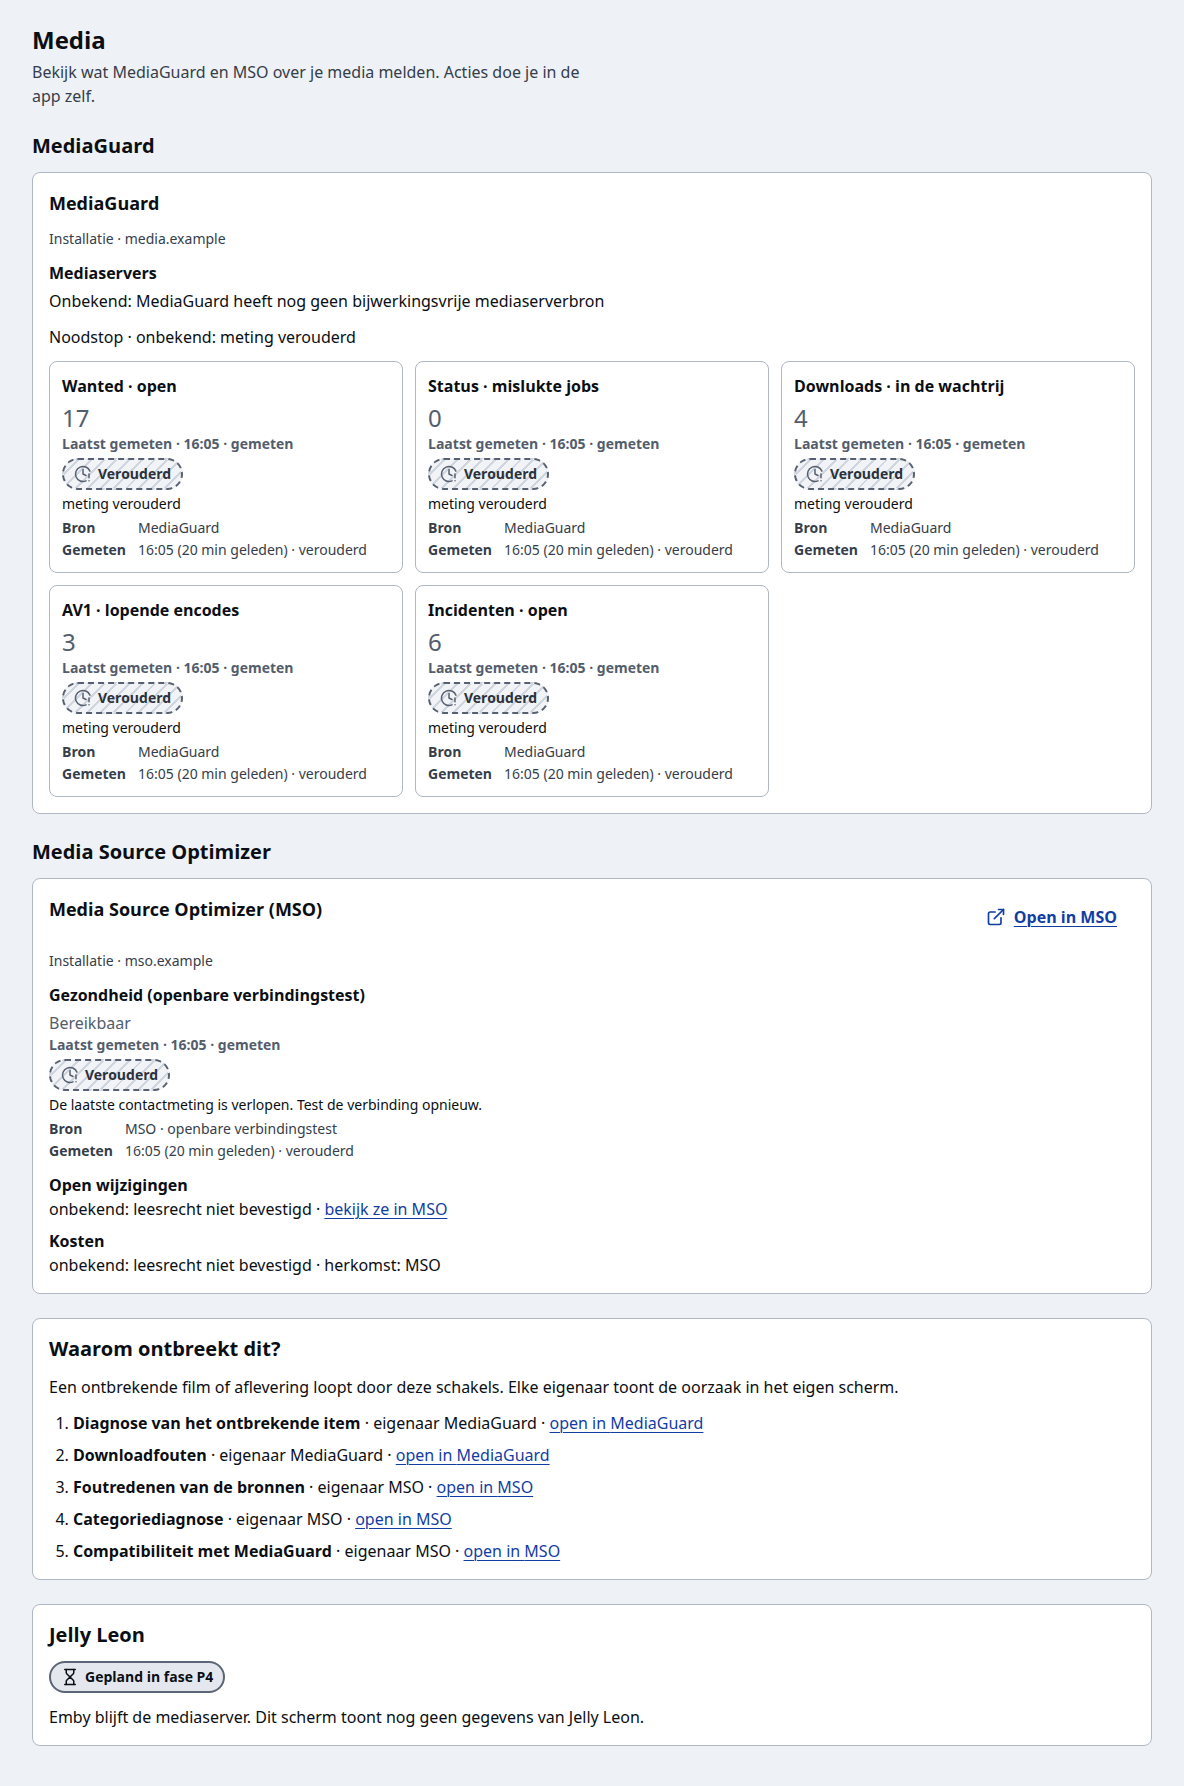
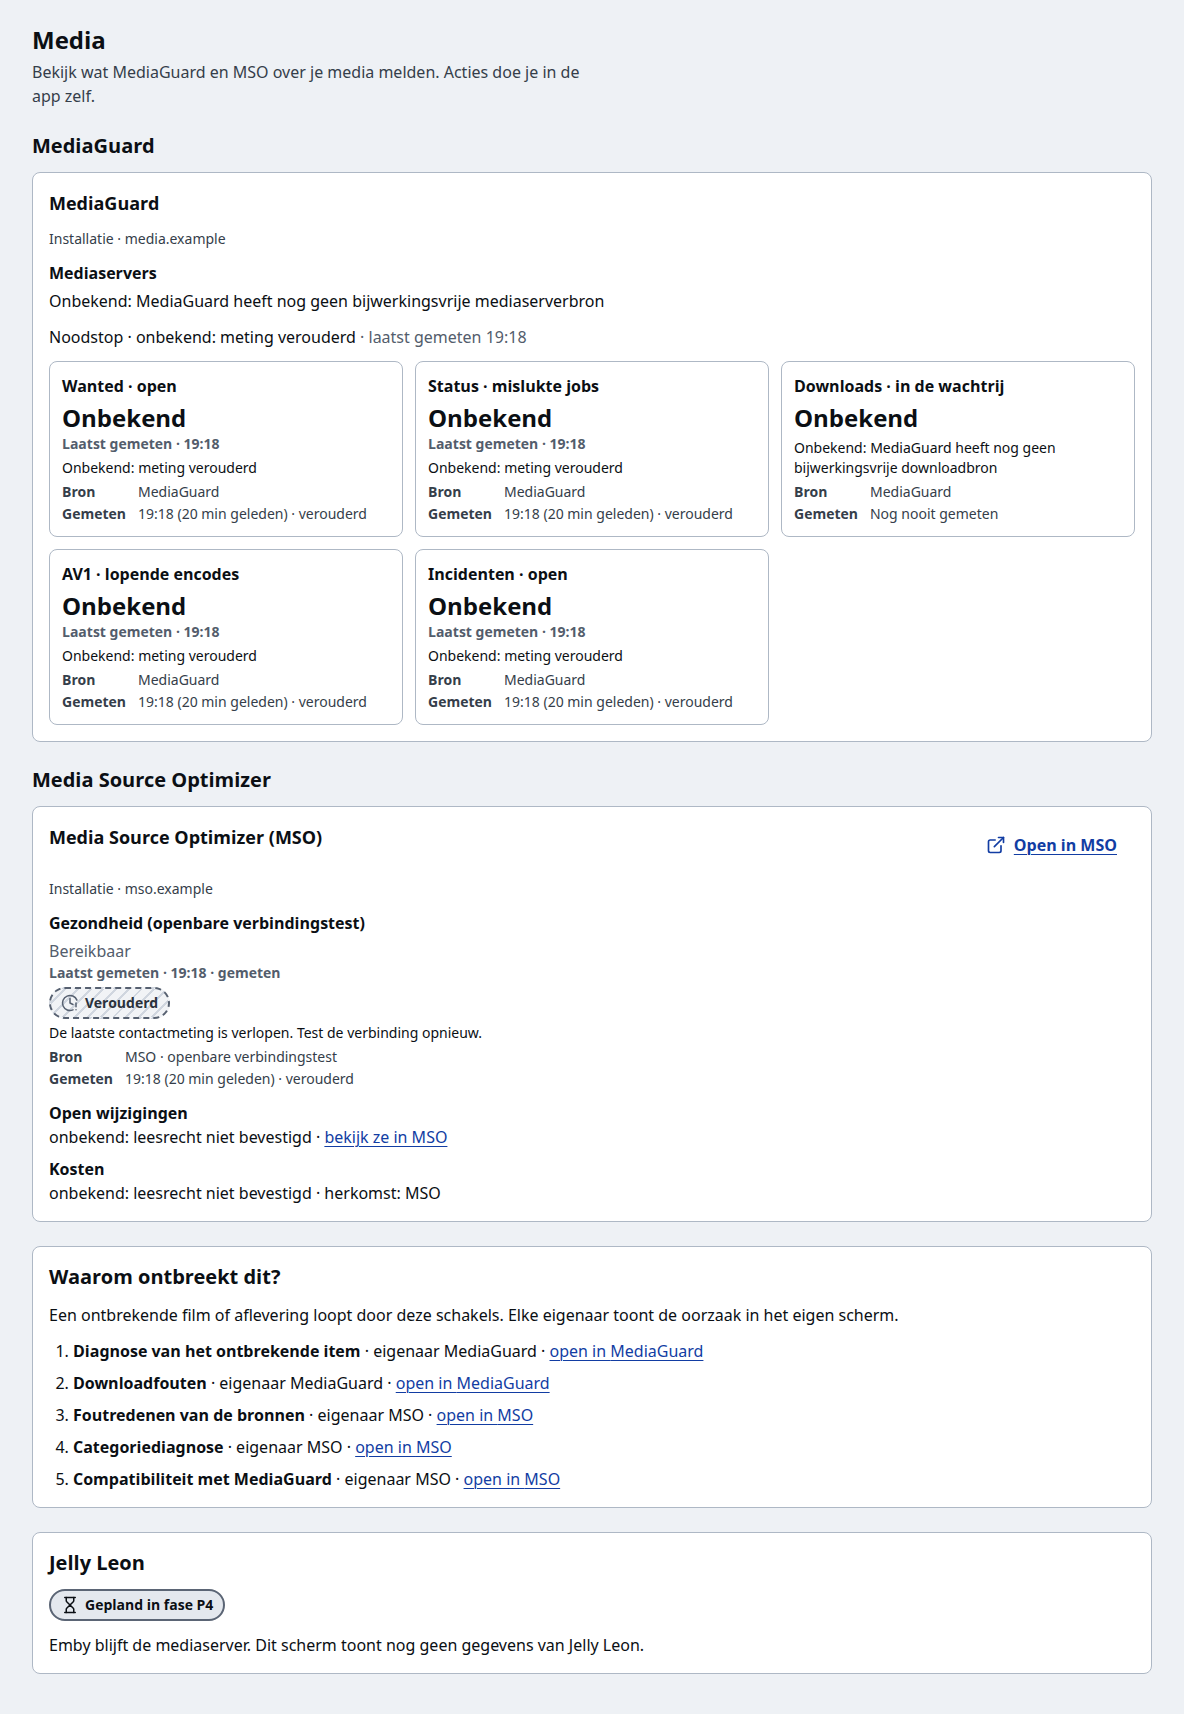
Toon bij een verouderde MediaGuard-bron de laatste meettijd (S-P3-082)
Herstel R-VEILIG-5: een onbekend cijfer met bekende bronmeettijd toont
geen getal maar grijs "Laatst gemeten" met die tijd, nooit "Nog nooit
gemeten". De onbekende noodstop toont "laatst gemeten <tijd>". De
e2e-fixture verouderd gebruikt nu de echte Hub-vorm (onbekend, waarde
null, oorspronkelijke meettijd); downloads is altijd onbekend.
Schermafdrukken gevuld en verouderd bijgewerkt.

diff --git a/apps/web/e2e/20-media.spec.ts b/apps/web/e2e/20-media.spec.ts
@@ -9,20 +9,27 @@ const route = "**/api/v1/adapterkoppelingen?*";
 const overzichtRoute = "**/api/v1/adapterkoppelingen/*/mediaguard";
 const onbekend = { status: "unknown", observed_at: null, reason_code: "geen_alleen_lezen_bron" };
 const CIJFERS = ["wanted", "status", "downloads", "av1", "incidenten"];
+const DOWNLOADS = "MediaGuard heeft nog geen bijwerkingsvrije downloadbron";
 const SERVERS = { status: "onbekend", servers: null, reden: "MediaGuard heeft nog geen bijwerkingsvrije mediaserverbron" };
 
 function mediaguard() {
   return { id: randomUUID(), app_id: "mediaguard", catalog_app_id: randomUUID(), basis_url: "https://media.example", laatste4: "TST4",
     ingevoerd_op: null, version: 1, verbinding: onbekend, gezondheid: onbekend };
 }
-/** Vorm van hub/adapters/mediaguard_lezen.py::Overzicht. */
-function overzicht(tijd: string | null, noodstopAan = false) {
-  const waarden = [17, 0, 4, 3, 6];
-  const cijfers = Object.fromEntries(CIJFERS.map((k, i) => [k, tijd
-    ? { status: "gemeten", waarde: waarden[i], observed_at: tijd, reden: null }
+/**
+ * Vorm van hub/adapters/mediaguard_lezen.py::Overzicht. `verouderd`: zoals de Hub een te oude bronmeting teruggeeft,
+ * onbekend zonder waarde maar met de oorspronkelijke meettijd. Downloads vraagt de Hub nooit op (bijwerkingen in MediaGuard).
+ */
+function overzicht(tijd: string | null, noodstopAan = false, verouderd = false) {
+  const waarden = [17, 0, null, 3, 6];
+  const cijfers = Object.fromEntries(CIJFERS.map((k, i) => [k, k === "downloads"
+    ? { status: "onbekend", waarde: null, observed_at: null, reden: DOWNLOADS }
+    : tijd && verouderd ? { status: "onbekend", waarde: null, observed_at: tijd, reden: "meting verouderd" }
+    : tijd ? { status: "gemeten", waarde: waarden[i], observed_at: tijd, reden: null }
     : { status: "onbekend", waarde: null, observed_at: null, reden: "geen leesrecht" }]));
-  const noodstop = tijd
-    ? { status: "gemeten", actief: noodstopAan, sinds: noodstopAan ? tijd : null, observed_at: tijd, reden: null }
+  const noodstop = tijd && verouderd
+    ? { status: "onbekend", actief: null, sinds: null, observed_at: tijd, reden: "meting verouderd" }
+    : tijd ? { status: "gemeten", actief: noodstopAan, sinds: noodstopAan ? tijd : null, observed_at: tijd, reden: null }
     : { status: "onbekend", actief: null, sinds: null, observed_at: null, reden: "geen leesrecht" };
   return { correlation_id: randomUUID(), ...cijfers, noodstop, mediaservers: SERVERS };
 }
@@ -88,7 +95,7 @@ test("(a) gekoppeld met onbekende MediaGuard-bron: onbekend in plaats van nul, e
   await ready(page);
   for (const id of CIJFERS) {
     const tegel = page.getByTestId("cijfer-" + id);
-    await expect(tegel).toContainText("Onbekend: geen leesrecht");
+    await expect(tegel).toContainText(id === "downloads" ? "Onbekend: " + DOWNLOADS : "Onbekend: geen leesrecht");
     await expect(tegel).not.toContainText(/\b0\b/);
   }
   await expect(page.getByTestId("pauzebalk")).toHaveCount(0);
@@ -108,6 +115,7 @@ test("(b) gevuld: vijf gemeten cijfers, noodstop aan met sinds, mediaservers onb
   await expect(page.getByTestId("cijfer-wanted")).toContainText("17 · gemeten");
   await expect(page.getByTestId("cijfer-status")).toContainText("0 · gemeten");
   await expect(page.getByTestId("cijfer-av1")).toContainText("3 · gemeten");
+  await expect(page.getByTestId("cijfer-downloads")).toContainText("Onbekend: " + DOWNLOADS);
   await expect(page.getByTestId("pauzebalk")).toContainText("MediaGuard is gepauzeerd (noodstop)");
   await expect(page.locator("main")).toContainText("Onbekend: MediaGuard heeft nog geen bijwerkingsvrije mediaserverbron");
   await expect(page.getByTestId("mso-gezondheid")).toContainText("Bereikbaar · gemeten");
@@ -119,12 +127,12 @@ test("(b) gevuld: vijf gemeten cijfers, noodstop aan met sinds, mediaservers onb
   await afdruk(page, info, "gevuld");
 });
 
-test("verouderd: metingen ouder dan vijftien minuten staan grijs als laatst gemeten", async ({ page }, info) => {
+test("verouderd: metingen ouder dan vijftien minuten staan grijs als laatst gemeten, zonder getal", async ({ page }, info) => {
   const nu = new Date();
   const oud = new Date(nu.getTime() - 20 * 60_000).toISOString();
   await page.clock.install({ time: nu });
   await page.route(route, (r) => r.fulfill({ json: { items: [mediaguard(), mso(oud)], next_cursor: null } }));
-  await page.route(overzichtRoute, (r) => r.fulfill({ json: overzicht(oud, true) }));
+  await page.route(overzichtRoute, (r) => r.fulfill({ json: overzicht(oud, true, true) }));
   await page.goto("/media");
   await ready(page);
   const gezondheid = page.getByTestId("mso-gezondheid");
@@ -134,11 +142,12 @@ test("verouderd: metingen ouder dan vijftien minuten staan grijs als laatst geme
   const wanted = page.getByTestId("cijfer-wanted");
   await expect(wanted).toContainText("Laatst gemeten");
   await expect(wanted).toContainText("meting verouderd");
-  // Titel direct gevolgd door het actuele getal; de meettijd zelf kan ook op ":17" eindigen.
-  await expect(wanted).not.toContainText("open17 · gemeten");
-  await expect(wanted.locator(".text-stale-ink")).toContainText("17");
+  await expect(wanted).not.toContainText("Nog nooit gemeten");
+  await expect(wanted.locator(`time[datetime="${oud}"]`)).toBeVisible();
+  await expect(wanted.locator(".text-2xl")).toHaveText(/^Onbekend/);
   await expect(page.getByTestId("pauzebalk")).toHaveCount(0);
-  await expect(page.locator("main")).toContainText("Noodstop · onbekend: meting verouderd");
+  await expect(page.getByTestId("noodstop-uit")).toHaveCount(0);
+  await expect(page.locator("main")).toContainText("Noodstop · onbekend: meting verouderd · laatst gemeten");
   await controleer(page, "media verouderd");
   await afdruk(page, info, "verouderd");
 });

diff --git a/apps/web/tests/unit/media.test.tsx b/apps/web/tests/unit/media.test.tsx
@@ -26,7 +26,7 @@ const gemeten = (waarde: number, observed_at = VERS): BronCijfer => ({ status: "
 const weg = (reden: string): BronCijfer => ({ status: "onbekend", waarde: null, observed_at: null, reden });
 function overzicht(extra: Partial<MediaGuardOverzicht> = {}): MediaGuardOverzicht {
   return {
-    wanted: gemeten(17), status: gemeten(0), downloads: gemeten(4), av1: gemeten(3), incidenten: gemeten(6),
+    wanted: gemeten(17), status: gemeten(0), downloads: weg("MediaGuard heeft nog geen bijwerkingsvrije downloadbron"), av1: gemeten(3), incidenten: gemeten(6),
     noodstop: { status: "gemeten", actief: false, sinds: null, observed_at: VERS, reden: null }, mediaservers: SERVERS, ...extra,
   };
 }
@@ -113,11 +113,35 @@ describe("Media: toestanden van het scherm", () => {
     expect(tekst(html)).toContain("Noodstop · onbekend: meting verouderd");
   });
 
+  it("verouderd volgens de Hub: onbekend zonder getal, met 'Laatst gemeten' en de bronmeettijd, nooit 'Nog nooit gemeten'", () => {
+    // Vorm van het echte Hub-antwoord bij een verouderde bron (R-VEILIG-5): onbekend, waarde null, oorspronkelijke meettijd.
+    const verouderd: BronCijfer = { status: "onbekend", waarde: null, observed_at: OUD, reden: "meting verouderd" };
+    proef.mg = { data: overzicht({ wanted: verouderd, noodstop: { status: "onbekend", actief: null, sinds: null, observed_at: OUD, reden: "meting verouderd" } }) };
+    const html = inhoud([MG]);
+    const wanted = html.split('data-testid="cijfer-wanted"')[1]!.split("</dl>")[0]!;
+    expect(tekst(wanted)).toContain("Onbekend Laatst gemeten");
+    expect(wanted).toContain("text-stale-ink");
+    expect(wanted).toContain(`dateTime="${OUD}"`);
+    expect(tekst(wanted)).toContain("meting verouderd");
+    expect(wanted).not.toContain("Nog nooit gemeten");
+    expect(tekst(wanted)).not.toMatch(/\b17\b/);
+    expect(html).not.toContain("pauzebalk");
+    expect(html).not.toContain("noodstop-uit");
+    expect(tekst(html)).toContain("Noodstop · onbekend: meting verouderd · laatst gemeten");
+    expect(html).toContain(`<time dateTime="${OUD}">`);
+  });
+
+  it("nooit gemeten: zonder bronmeettijd blijft 'Nog nooit gemeten' staan", () => {
+    const html = inhoud([MG]);
+    expect(html.split('data-testid="cijfer-wanted"')[1]!.split("</dl>")[0]).toContain("Nog nooit gemeten");
+    expect(tegel(html, "wanted")).not.toContain("Laatst gemeten");
+  });
+
   it("verbindingsuitval: het laatste overzicht blijft grijs staan, nooit als actueel", () => {
     proef.mg = { data: overzicht(), error: new HubApiError(503, "api_unavailable", "Niet bereikbaar."), stale: true };
     const html = inhoud([MG]);
-    expect(tegel(html, "downloads")).toContain("Laatst gemeten");
-    expect(tegel(html, "downloads")).toContain("De Hub kon MediaGuard niet opnieuw lezen.");
+    expect(tegel(html, "wanted")).toContain("Laatst gemeten");
+    expect(tegel(html, "wanted")).toContain("De Hub kon MediaGuard niet opnieuw lezen.");
     expect(tekst(html)).toContain("Noodstop · onbekend: De Hub kon MediaGuard niet opnieuw lezen.");
   });
 
@@ -141,7 +165,7 @@ describe("Media: toestanden van het scherm", () => {
   });
 
   it("noodstop aan: de kaart zelf heeft geen knop", () => {
-    const mg: MediaGuardWeergave = { ...mediaguardWeergave(MG, ONBEKEND, NU, false, "x"), noodstop: { actief: true, sinds: "2026-11-21T09:30:00Z", reden: null } };
+    const mg: MediaGuardWeergave = { ...mediaguardWeergave(MG, ONBEKEND, NU, false, "x"), noodstop: { actief: true, sinds: "2026-11-21T09:30:00Z", reden: null, observedAt: VERS } };
     const html = renderToStaticMarkup(<MediaGuardKaart mg={mg} />);
     expect(tekst(html)).toContain("gepauzeerd (noodstop)");
     expect(html).not.toContain("<button");

diff --git a/apps/web/src/app/media/MediaScreen.tsx b/apps/web/src/app/media/MediaScreen.tsx
@@ -35,7 +35,10 @@ export function CijferTegel({ cijfer, bron }: { cijfer: Cijfer; bron: string }) 
     <div className="flex min-w-0 flex-col gap-1 rounded-lg border border-border p-3" data-testid={"cijfer-" + cijfer.id}>
       <h4 className="font-semibold">{cijfer.titel}</h4>
       {getal === null ? (
-        <p className="text-2xl font-semibold">Onbekend</p>
+        <p className="text-2xl font-semibold">
+          Onbekend
+          {cijfer.observedAt ? <span className="block text-sm font-semibold text-stale-ink">Laatst gemeten · {formatTime(cijfer.observedAt)}</span> : null}
+        </p>
       ) : verouderd ? (
         <p className="text-2xl text-stale-ink">
           {getal}
@@ -46,7 +49,7 @@ export function CijferTegel({ cijfer, bron }: { cijfer: Cijfer; bron: string }) 
       )}
       {getal !== null && verouderd ? <StatusBadge view={{ tone: "stale", label: "Verouderd" }} /> : null}
       {cijfer.reden ? <p className="text-sm">{getal === null ? "Onbekend: " : ""}{cijfer.reden}</p> : null}
-      <Freshness bron={bron} label="Gemeten" observedAt={getal === null ? null : cijfer.observedAt} verouderd={getal !== null && verouderd} />
+      <Freshness bron={bron} label="Gemeten" observedAt={cijfer.observedAt} verouderd={cijfer.observedAt !== null && verouderd} />
     </div>
   );
 }
@@ -92,7 +95,12 @@ export function MediaGuardKaart({ mg }: { mg: MediaGuardWeergave }) {
           </ul>
         )}
       </section>
-      {mg.noodstop.actief === null ? <p>Noodstop · onbekend: {mg.noodstop.reden}</p> : null}
+      {mg.noodstop.actief === null ? (
+        <p>
+          Noodstop · onbekend: {mg.noodstop.reden}
+          {mg.noodstop.observedAt ? <span className="text-stale-ink"> · laatst gemeten <time dateTime={mg.noodstop.observedAt}>{formatTime(mg.noodstop.observedAt)}</time></span> : null}
+        </p>
+      ) : null}
       {mg.noodstop.actief === false ? <p data-testid="noodstop-uit">Noodstop · uit · gemeten</p> : null}
       <div className="grid gap-3 sm:grid-cols-2 xl:grid-cols-3">
         {mg.cijfers.map((c) => <CijferTegel key={c.id} cijfer={c} bron="MediaGuard" />)}

diff --git a/apps/web/src/app/media/mediaweergave.ts b/apps/web/src/app/media/mediaweergave.ts
@@ -46,7 +46,7 @@ export interface MediaGuardWeergave {
   installatie: string;
   servers: Mediaserver[] | null;
   serversReden: string | null;
-  noodstop: { actief: boolean | null; sinds: string | null; reden: string | null };
+  noodstop: { actief: boolean | null; sinds: string | null; reden: string | null; observedAt: string | null };
   cijfers: Cijfer[];
 }
 
@@ -88,7 +88,8 @@ export function mediaguardWeergave(k: Koppeling, o: MediaGuardOverzicht | null, 
     const c = o?.[id];
     const t = c ? meettijd(c.observed_at, nu) : null;
     if (!c || c.status !== "gemeten" || typeof c.waarde !== "number" || t === null) {
-      return { id, titel, waarde: null, zekerheid: "onbekend", observedAt: null, verouderd: false, reden: c?.reden ?? fout };
+      // Een bekende bronmeettijd blijft zichtbaar als "laatst gemeten" (grijs), zonder getal.
+      return { id, titel, waarde: null, zekerheid: "onbekend", observedAt: t === null ? null : c!.observed_at, verouderd: t !== null, reden: c?.reden ?? fout };
     }
     const verouderd = oud || nu - t > MAX_AGE_MS;
     return { id, titel, waarde: c.waarde, zekerheid: "gemeten", observedAt: c.observed_at, verouderd, reden: verouderd ? (oud ? nietActueel : "meting verouderd") : null };
@@ -102,8 +103,8 @@ export function mediaguardWeergave(k: Koppeling, o: MediaGuardOverzicht | null, 
     servers: null,
     serversReden: o?.mediaservers.reden ?? fout,
     noodstop: noodstopVers
-      ? { actief: n.actief, sinds: n.sinds, reden: null }
-      : { actief: null, sinds: null, reden: n?.status === "gemeten" ? (oud ? nietActueel : "meting verouderd") : n?.reden ?? fout },
+      ? { actief: n.actief, sinds: n.sinds, reden: null, observedAt: n.observed_at }
+      : { actief: null, sinds: null, reden: n?.status === "gemeten" ? (oud ? nietActueel : "meting verouderd") : n?.reden ?? fout, observedAt: nt === null ? null : n!.observed_at },
     cijfers,
   };
 }
